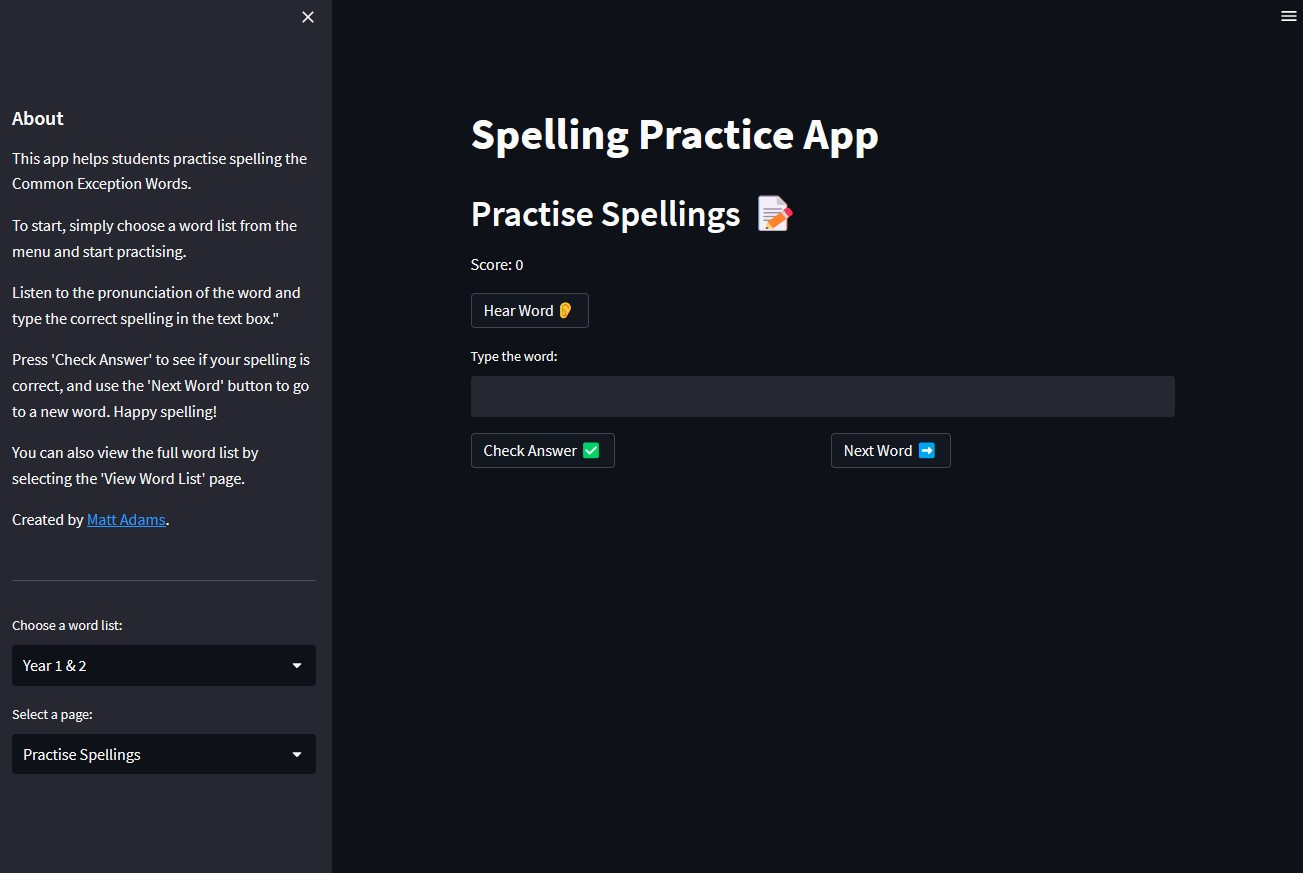
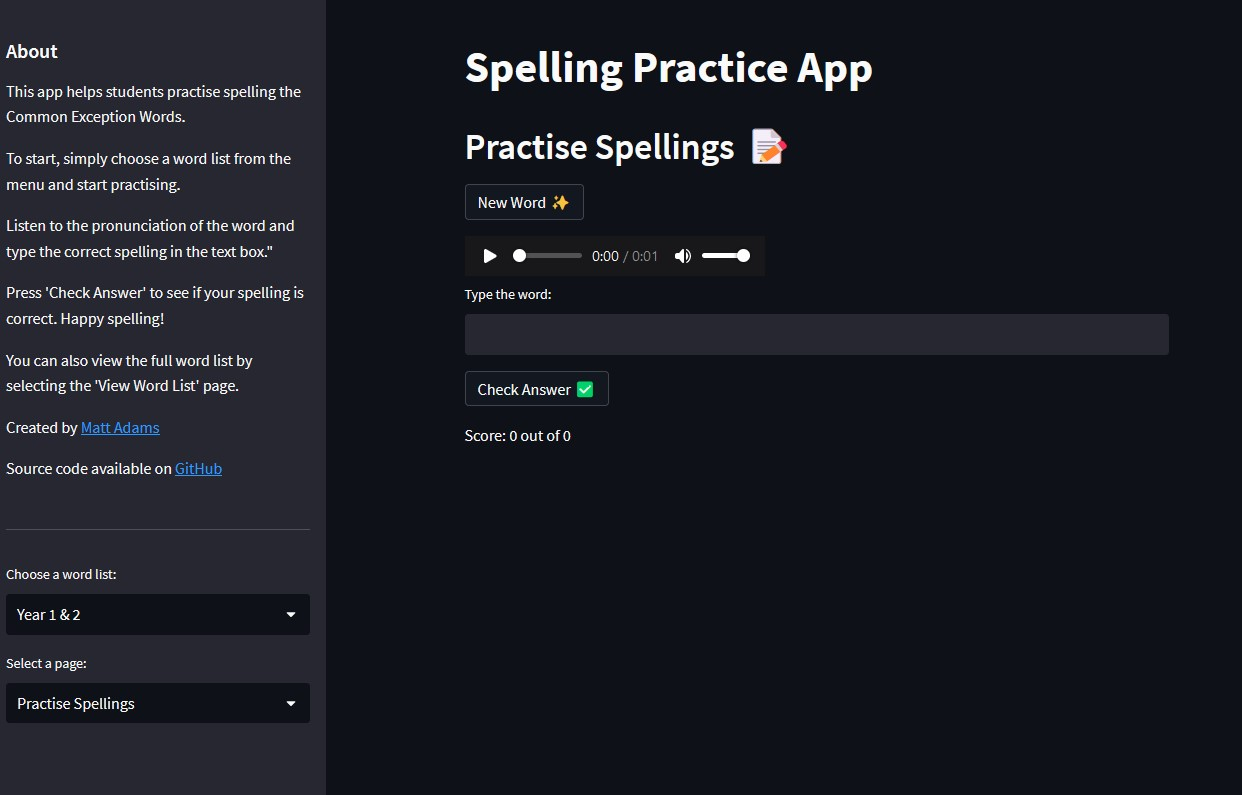
Update README

Changed region(s): [[0.0, 0.0, 0.2754, 1.0], [0.3366, 0.0604, 0.9485, 0.5736], [0.9791, 0.0, 1.0, 0.0302]]

diff --git a/app.py b/app.py
@@ -42,20 +42,32 @@ incorrect_audio_base64 = audio_file_to_base64(INCORRECT_SOUND_PATH)
 # Main function to run the app
 def app():
     st.title("Spelling Practice App")
+
+    st.sidebar.header("How to Use")
+    with st.sidebar:
+        st.markdown("""
+        1. To start, simply choose a word list from the menu below.
+        
+        2. Click 'New Word' to select a new word to spell.
+
+        3. Listen to the the word and then try to spell it in the text box.
+        
+        4. Press 'Check Answer' to see if your spelling is correct. 
+        
+        Happy spelling!
+
+        You can also look at the full word lists by selecting the 'View Word List' page.
+        """)
+        st.markdown("""---""")
+
     st.sidebar.header("About")
 
     # Sidebar information about the app
     with st.sidebar:
         st.markdown("""
-        This app helps students practise spelling the Common Exception Words.
+        This app is designed to help children practise spelling the Common Exception Words.
         
-        To start, simply choose a word list from the menu and start practising.
-        
-        Listen to the pronunciation of the word and type the correct spelling in the text box."
-        
-        Press 'Check Answer' to see if your spelling is correct. Happy spelling!
-
-        You can also view the full word list by selecting the 'View Word List' page.
+        No personal data is collected or stored by this app. 
         """)
         st.markdown("Created by [Matt Adams](https://www.linkedin.com/in/matthewrwadams/)")
         st.markdown("Source code available on [GitHub](https://github.com/mrwadams/spelling-practice-app)")

diff --git a/README.md b/README.md
@@ -14,10 +14,10 @@ Welcome to the Spelling Practice App! This interactive web app is designed to he
 
 ## How to Use
 
-1. **Choose a Word List:** Start by selecting a word list from the sidebar menu. The lists are tailored to different year groups, so you can choose the one that suits your child's level.
+1. **Choose a Word List:** To start, simply choose a word list from the sidebar menu.
 
 2. **Select a Page:** You have two options: "Practise Spellings" and "View Word List".
-   - In "Practise Spellings", your child can listen to a word's pronunciation by clicking the "Hear Word" button, then type in the spelling. Click "Check Answer" to submit the spelling and get instant feedback.
+   - In "Practise Spellings", click 'New Word' to select a new word to spell. Listen to the word and then try to spell it in the text box. Press 'Check Answer' to see if your spelling is correct.
    - In "View Word List", you can see the full list of words for the selected year group.
 
 3. **Track Progress:** The app keeps score during each practise session, encouraging your child to improve their spelling skills.
